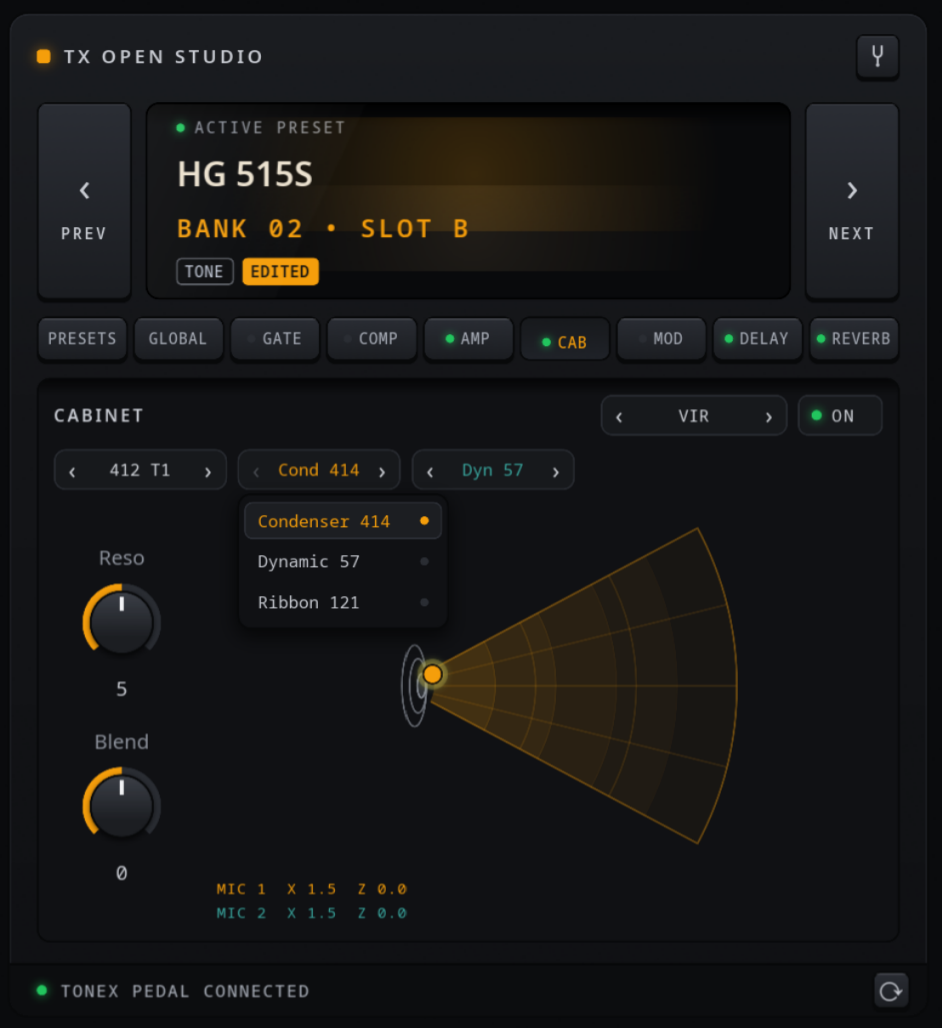
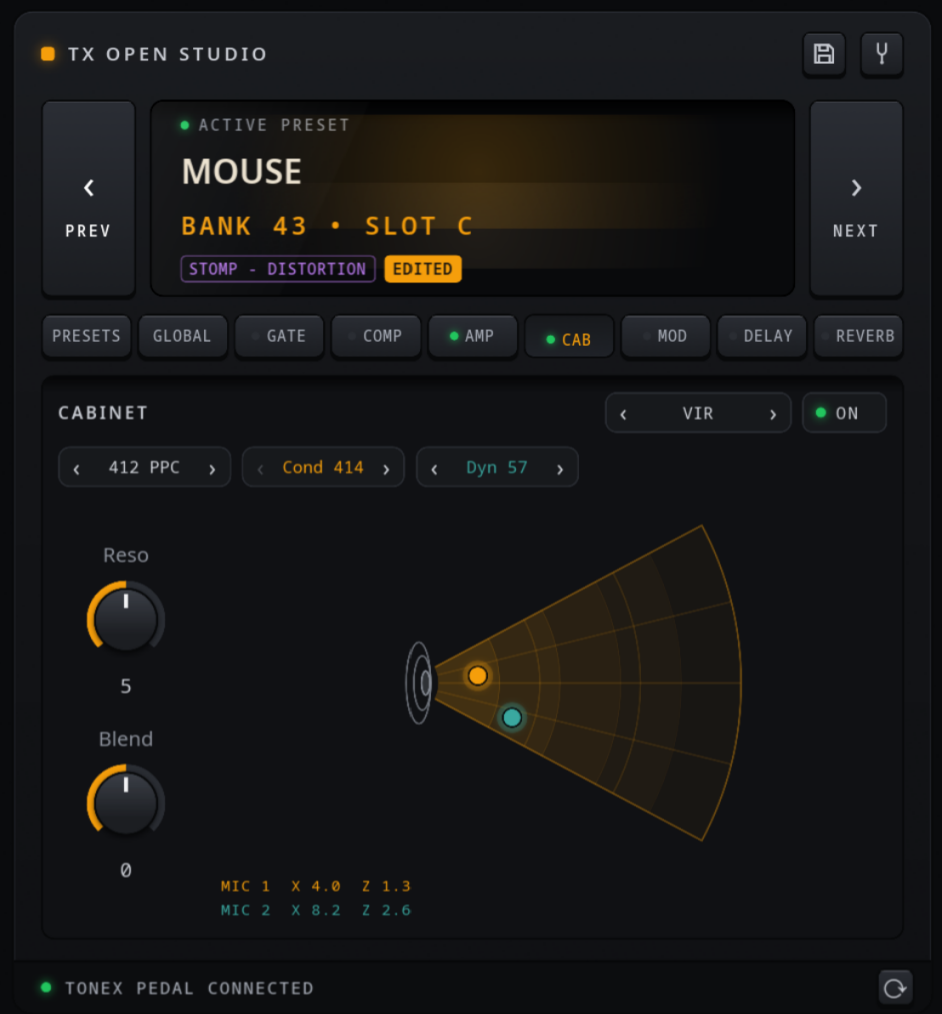
v0.4.0
Preset rename and hold-to-save of edits — the first writes to the pedal,
verified by reading the preset back. Fresh screenshots.

diff --git a/README.md b/README.md
@@ -20,6 +20,7 @@ TX Open Studio is written in Rust with the [Slint](https://slint.dev) UI toolkit
 - Keyboard navigation: Left/Right step through presets. In the search field, Down moves into the list. In the list, Up/Down move the highlight and Enter selects the preset.
 - Preset switching over USB-MIDI (Bank Select CC0 + Program Change, on whatever MIDI channel the pedal is set to — the app reads it from the pedal).
 - When you change presets with the footswitches, the app follows.
+- **Rename presets** on the pedal: right-click a preset in the list → Rename, edit inline, Enter or ✓ to write it.
 - The list's numbering follows the pedal's **Naming** setting (Bank+Name `46C`, 0-based `PC 083`, or names only) — change it on either side and both displays switch.
 
 **Live editing (USB serial)**
@@ -43,6 +44,7 @@ Other details:
 
 - Knobs are dragged vertically. Double-click a knob to reset it to its default value.
 - An **EDITED** indicator shows when the live state differs from the preset as last loaded.
+- **Save edits** to the active preset: hold the floppy button (top right) for 1 s — an amber fill rises as a guard against misclicks. The app writes the preset and verifies it by reading it back.
 - Tuner on/off button (sent as MIDI CC 9).
 - Auto-reconnect: unplug the pedal or power-cycle it and the app shows RECONNECTING, polls every 2 seconds, and resyncs everything (current preset, names, parameters, globals) when it comes back. The status bar also has a manual reconnect button.
 
